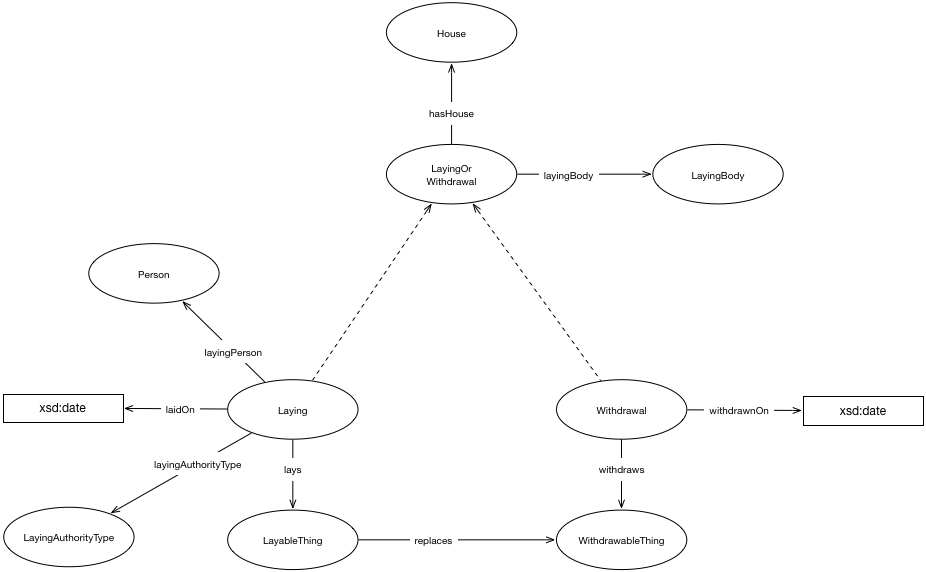
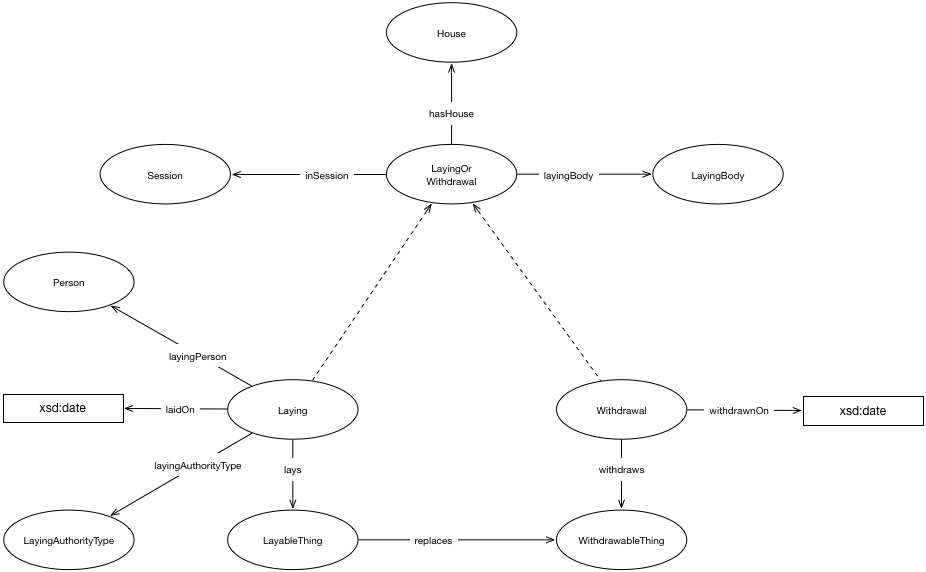
first draft

diff --git a/laying/laying-ontology.html b/laying/laying-ontology.html
@@ -1,0 +1,50 @@
+
+<?xml version="1.0" encoding="UTF-8"?><html xmlns="http://www.w3.org/1999/xhtml"><head><meta http-equiv="Content-Type" content="text/html; charset=UTF-8" /><title>Laying ontology</title>
+	
+	
+	
+	
+	
+	
+	
+	
+
+
+
+	
+
+		<link href="https://ukparliament.github.io/ontologies/assets/css.css" rel="stylesheet" type="text/css" />
+	</head>
+		<body>
+			<div class="head">
+				<h1>Laying ontology</h1>
+				<dl>
+					<dt>IRI:</dt>
+					<dd>http://parliament.uk/ontologies/laying/</dd>
+					<dt>See also:</dt>
+					<dd><a href="/ontologies/laying/laying-ontology.ttl">Turtle</dd>
+					<dd><a href="https://github.com/ukparliament/ontologies/tree/master/laying">Github</a></dd>
+					<dd><a href="http://pdswebvowl.azurewebsites.net/#iri=https://raw.githubusercontent.com/ukparliament/ontologies/master/laying/laying-ontology.ttl">Visualised</a></dd>
+			</dl>
+			<div class="copyright"><span class="markdown">Open Parliament Licence v3.0</span></div>
+		</div>
+		<hr />
+		<div id="toc"><h2>Table of Content</h2><ol><li><a href="#classes">Classes</a></li><li><a href="#objectproperties">Object Properties</a></li><li><a href="#dataproperties">Data Properties</a></li><li><a href="#namespacedeclarations">Namespace Declarations</a></li></ol></div>
+
+		<p><img src="https://raw.githubusercontent.com/ukpds/ontologies/master/laying/laying.png" width="950" /></p>
+	
+	
+	
+	
+	
+	
+	
+	
+	
+	
+	
+	
+	
+	<div id="classes"><h2>Classes</h2><ul class="hlist"><li><a href="#d4e199" title="http://parliament.uk/ontologies/laying/House">House</a></li><li><a href="#d4e211" title="http://parliament.uk/ontologies/laying/LayableThing">LayableThing</a></li><li><a href="#d4e222" title="http://parliament.uk/ontologies/laying/Laying">Laying</a></li><li><a href="#d4e235" title="http://parliament.uk/ontologies/laying/LayingAuthorityType">LayingAuthorityType</a></li><li><a href="#d4e246" title="http://parliament.uk/ontologies/laying/LayingBody">LayingBody</a></li><li><a href="#d4e257" title="http://parliament.uk/ontologies/laying/LayingOrWithdrawal">LayingOrWithdrawal</a></li><li><a href="#d4e268" title="http://parliament.uk/ontologies/laying/Person">Person</a></li><li><a href="#d4e280" title="http://parliament.uk/ontologies/laying/Session">Session</a></li><li><a href="#d4e291" title="http://parliament.uk/ontologies/laying/WithdrawableThing">WithdrawableThing</a></li><li><a href="#d4e302" title="http://parliament.uk/ontologies/laying/Withdrawal">Withdrawal</a></li></ul><div id="d4e199" class="entity"><a name="http://parliament.uk/ontologies/laying/House"></a><h3>House<sup title="class" class="type-c">c</sup><span class="backlink"> back to <a href="#toc">ToC</a> or <a href="#classes">Class ToC</a></span></h3><p><strong>IRI:</strong> http://parliament.uk/ontologies/laying/House</p><div class="comment"><span class="markdown">A parliamentary House e.g. the House of Lords.</span></div><dl class="description"><dt>is in range of</dt><dd><a href="#d4e44" title="http://parliament.uk/ontologies/laying/hasHouse">hasHouse</a><sup title="object property" class="type-op">op</sup></dd></dl></div><div id="d4e211" class="entity"><a name="http://parliament.uk/ontologies/laying/LayableThing"></a><h3>LayableThing<sup title="class" class="type-c">c</sup><span class="backlink"> back to <a href="#toc">ToC</a> or <a href="#classes">Class ToC</a></span></h3><p><strong>IRI:</strong> http://parliament.uk/ontologies/laying/LayableThing</p><div class="comment"><span class="markdown">Any type of paper which can be laid before a House.</span></div><dl class="description"><dt>is in domain of</dt><dd><a href="#d4e136" title="http://parliament.uk/ontologies/laying/replaces">replaces</a><sup title="object property" class="type-op">op</sup></dd><dt>is in range of</dt><dd><a href="#d4e121" title="http://parliament.uk/ontologies/laying/lays">lays</a><sup title="object property" class="type-op">op</sup></dd></dl></div><div id="d4e222" class="entity"><a name="http://parliament.uk/ontologies/laying/Laying"></a><h3>Laying<sup title="class" class="type-c">c</sup><span class="backlink"> back to <a href="#toc">ToC</a> or <a href="#classes">Class ToC</a></span></h3><p><strong>IRI:</strong> http://parliament.uk/ontologies/laying/Laying</p><div class="comment"><span class="markdown">The act of laying (submitting) a paper before a House.</span></div><dl class="description"><dt>has super-classes</dt><dd><a href="#d4e257" title="http://parliament.uk/ontologies/laying/LayingOrWithdrawal">LayingOrWithdrawal</a><sup title="class" class="type-c">c</sup></dd><dt>is in domain of</dt><dd><a href="#d4e169" title="http://parliament.uk/ontologies/laying/laidOn">laidOn</a><sup title="data property" class="type-dp">dp</sup>, <a href="#d4e75" title="http://parliament.uk/ontologies/laying/layingAuthorityType">layingAuthorityType</a><sup title="object property" class="type-op">op</sup>, <a href="#d4e105" title="http://parliament.uk/ontologies/laying/layingPerson">layingPerson</a><sup title="object property" class="type-op">op</sup>, <a href="#d4e121" title="http://parliament.uk/ontologies/laying/lays">lays</a><sup title="object property" class="type-op">op</sup></dd></dl></div><div id="d4e235" class="entity"><a name="http://parliament.uk/ontologies/laying/LayingAuthorityType"></a><h3>LayingAuthorityType<sup title="class" class="type-c">c</sup><span class="backlink"> back to <a href="#toc">ToC</a> or <a href="#classes">Class ToC</a></span></h3><p><strong>IRI:</strong> http://parliament.uk/ontologies/laying/LayingAuthorityType</p><div class="comment"><span class="markdown"></span></div><dl class="description"><dt>is in range of</dt><dd><a href="#d4e75" title="http://parliament.uk/ontologies/laying/layingAuthorityType">layingAuthorityType</a><sup title="object property" class="type-op">op</sup></dd></dl></div><div id="d4e246" class="entity"><a name="http://parliament.uk/ontologies/laying/LayingBody"></a><h3>LayingBody<sup title="class" class="type-c">c</sup><span class="backlink"> back to <a href="#toc">ToC</a> or <a href="#classes">Class ToC</a></span></h3><p><strong>IRI:</strong> http://parliament.uk/ontologies/laying/LayingBody</p><div class="comment"><span class="markdown">A body granted the right to lay papers before a House.</span></div><dl class="description"><dt>is in range of</dt><dd><a href="#d4e90" title="http://parliament.uk/ontologies/laying/layingBody">layingBody</a><sup title="object property" class="type-op">op</sup></dd></dl></div><div id="d4e257" class="entity"><a name="http://parliament.uk/ontologies/laying/LayingOrWithdrawal"></a><h3>LayingOrWithdrawal<sup title="class" class="type-c">c</sup><span class="backlink"> back to <a href="#toc">ToC</a> or <a href="#classes">Class ToC</a></span></h3><p><strong>IRI:</strong> http://parliament.uk/ontologies/laying/LayingOrWithdrawal</p><div class="comment"><span class="markdown">The act of laying or withdrawing a paper into or out of a House.</span></div><dl class="description"><dt>has sub-classes</dt><dd><a href="#d4e222" title="http://parliament.uk/ontologies/laying/Laying">Laying</a><sup title="class" class="type-c">c</sup>, <a href="#d4e302" title="http://parliament.uk/ontologies/laying/Withdrawal">Withdrawal</a><sup title="class" class="type-c">c</sup></dd><dt>is in domain of</dt><dd><a href="#d4e44" title="http://parliament.uk/ontologies/laying/hasHouse">hasHouse</a><sup title="object property" class="type-op">op</sup>, <a href="#d4e59" title="http://parliament.uk/ontologies/laying/inSession">inSession</a><sup title="object property" class="type-op">op</sup>, <a href="#d4e90" title="http://parliament.uk/ontologies/laying/layingBody">layingBody</a><sup title="object property" class="type-op">op</sup></dd></dl></div><div id="d4e268" class="entity"><a name="http://parliament.uk/ontologies/laying/Person"></a><h3>Person<sup title="class" class="type-c">c</sup><span class="backlink"> back to <a href="#toc">ToC</a> or <a href="#classes">Class ToC</a></span></h3><p><strong>IRI:</strong> http://parliament.uk/ontologies/laying/Person</p><div class="comment"><span class="markdown">A person.</span></div><dl class="description"><dt>is in range of</dt><dd><a href="#d4e105" title="http://parliament.uk/ontologies/laying/layingPerson">layingPerson</a><sup title="object property" class="type-op">op</sup></dd></dl></div><div id="d4e280" class="entity"><a name="http://parliament.uk/ontologies/laying/Session"></a><h3>Session<sup title="class" class="type-c">c</sup><span class="backlink"> back to <a href="#toc">ToC</a> or <a href="#classes">Class ToC</a></span></h3><p><strong>IRI:</strong> http://parliament.uk/ontologies/laying/Session</p><div class="comment"><span class="markdown">The period during which Parliament is active. The first session of a parliament begins on the same day as the parliament. This date is named in the dissolution proclamation. It ends on the day named in the subsequent prorogation proclamation. Subsequent sessions begin and end on dates named in prorogation proclamations. The final session ends with a prorogation followed by a dissolution. Parliament may be prorogued a few days before dissolution. A session typically lasts for one year though isn't bound by that. Session periods are the same across both Houses.</span></div><dl class="description"><dt>is in range of</dt><dd><a href="#d4e59" title="http://parliament.uk/ontologies/laying/inSession">inSession</a><sup title="object property" class="type-op">op</sup></dd></dl></div><div id="d4e291" class="entity"><a name="http://parliament.uk/ontologies/laying/WithdrawableThing"></a><h3>WithdrawableThing<sup title="class" class="type-c">c</sup><span class="backlink"> back to <a href="#toc">ToC</a> or <a href="#classes">Class ToC</a></span></h3><p><strong>IRI:</strong> http://parliament.uk/ontologies/laying/WithdrawableThing</p><div class="comment"><span class="markdown">Any type of paper which can be withdrawn from a House.</span></div><dl class="description"><dt>is in range of</dt><dd><a href="#d4e136" title="http://parliament.uk/ontologies/laying/replaces">replaces</a><sup title="object property" class="type-op">op</sup>, <a href="#d4e151" title="http://parliament.uk/ontologies/laying/withdraws">withdraws</a><sup title="object property" class="type-op">op</sup></dd></dl></div><div id="d4e302" class="entity"><a name="http://parliament.uk/ontologies/laying/Withdrawal"></a><h3>Withdrawal<sup title="class" class="type-c">c</sup><span class="backlink"> back to <a href="#toc">ToC</a> or <a href="#classes">Class ToC</a></span></h3><p><strong>IRI:</strong> http://parliament.uk/ontologies/laying/Withdrawal</p><div class="comment"><span class="markdown">The act of withdrawing a paper from a House.</span></div><dl class="description"><dt>has super-classes</dt><dd><a href="#d4e257" title="http://parliament.uk/ontologies/laying/LayingOrWithdrawal">LayingOrWithdrawal</a><sup title="class" class="type-c">c</sup></dd><dt>is in domain of</dt><dd><a href="#d4e151" title="http://parliament.uk/ontologies/laying/withdraws">withdraws</a><sup title="object property" class="type-op">op</sup></dd></dl></div></div><div id="objectproperties"><h2>Object Properties</h2><ul class="hlist"><li><a href="#d4e44" title="http://parliament.uk/ontologies/laying/hasHouse">hasHouse</a></li><li><a href="#d4e59" title="http://parliament.uk/ontologies/laying/inSession">inSession</a></li><li><a href="#d4e75" title="http://parliament.uk/ontologies/laying/layingAuthorityType">layingAuthorityType</a></li><li><a href="#d4e90" title="http://parliament.uk/ontologies/laying/layingBody">layingBody</a></li><li><a href="#d4e105" title="http://parliament.uk/ontologies/laying/layingPerson">layingPerson</a></li><li><a href="#d4e121" title="http://parliament.uk/ontologies/laying/lays">lays</a></li><li><a href="#d4e136" title="http://parliament.uk/ontologies/laying/replaces">replaces</a></li><li><a href="#d4e151" title="http://parliament.uk/ontologies/laying/withdraws">withdraws</a></li></ul><div id="d4e44" class="entity"><a name="http://parliament.uk/ontologies/laying/hasHouse"></a><h3>hasHouse<sup title="object property" class="type-op">op</sup><span class="backlink"> back to <a href="#toc">ToC</a> or <a href="#objectproperties">Object Property ToC</a></span></h3><p><strong>IRI:</strong> http://parliament.uk/ontologies/laying/hasHouse</p><div class="comment"><span class="markdown">Relates an act of laying or withdrawing to the House it happens in.</span></div><div class="description"><dl><dt>has domain</dt><dd><a href="#d4e257" title="http://parliament.uk/ontologies/laying/LayingOrWithdrawal">LayingOrWithdrawal</a><sup title="class" class="type-c">c</sup></dd><dt>has range</dt><dd><a href="#d4e199" title="http://parliament.uk/ontologies/laying/House">House</a><sup title="class" class="type-c">c</sup></dd></dl></div></div><div id="d4e59" class="entity"><a name="http://parliament.uk/ontologies/laying/inSession"></a><h3>inSession<sup title="object property" class="type-op">op</sup><span class="backlink"> back to <a href="#toc">ToC</a> or <a href="#objectproperties">Object Property ToC</a></span></h3><p><strong>IRI:</strong> http://parliament.uk/ontologies/laying/inSession</p><div class="comment"><span class="markdown">Relates an act of laying or withdrawing to the Session it happens in. Note that papers may be laid during a prorogation period for the attention of the House during the subsequent session. In this case this relationship would point to the subsequent session.</span></div><div class="description"><dl><dt>has domain</dt><dd><a href="#d4e257" title="http://parliament.uk/ontologies/laying/LayingOrWithdrawal">LayingOrWithdrawal</a><sup title="class" class="type-c">c</sup></dd><dt>has range</dt><dd><a href="#d4e280" title="http://parliament.uk/ontologies/laying/Session">Session</a><sup title="class" class="type-c">c</sup></dd></dl></div></div><div id="d4e75" class="entity"><a name="http://parliament.uk/ontologies/laying/layingAuthorityType"></a><h3>layingAuthorityType<sup title="object property" class="type-op">op</sup><span class="backlink"> back to <a href="#toc">ToC</a> or <a href="#objectproperties">Object Property ToC</a></span></h3><p><strong>IRI:</strong> http://parliament.uk/ontologies/laying/layingAuthorityType</p><div class="comment"><span class="markdown">Relates an act of laying to a laying authority type.</span></div><div class="description"><dl><dt>has domain</dt><dd><a href="#d4e222" title="http://parliament.uk/ontologies/laying/Laying">Laying</a><sup title="class" class="type-c">c</sup></dd><dt>has range</dt><dd><a href="#d4e235" title="http://parliament.uk/ontologies/laying/LayingAuthorityType">LayingAuthorityType</a><sup title="class" class="type-c">c</sup></dd></dl></div></div><div id="d4e90" class="entity"><a name="http://parliament.uk/ontologies/laying/layingBody"></a><h3>layingBody<sup title="object property" class="type-op">op</sup><span class="backlink"> back to <a href="#toc">ToC</a> or <a href="#objectproperties">Object Property ToC</a></span></h3><p><strong>IRI:</strong> http://parliament.uk/ontologies/laying/layingBody</p><div class="comment"><span class="markdown">Relates an act of laying or withdrawal to the laying body initiating it.</span></div><div class="description"><dl><dt>has domain</dt><dd><a href="#d4e257" title="http://parliament.uk/ontologies/laying/LayingOrWithdrawal">LayingOrWithdrawal</a><sup title="class" class="type-c">c</sup></dd><dt>has range</dt><dd><a href="#d4e246" title="http://parliament.uk/ontologies/laying/LayingBody">LayingBody</a><sup title="class" class="type-c">c</sup></dd></dl></div></div><div id="d4e105" class="entity"><a name="http://parliament.uk/ontologies/laying/layingPerson"></a><h3>layingPerson<sup title="object property" class="type-op">op</sup><span class="backlink"> back to <a href="#toc">ToC</a> or <a href="#objectproperties">Object Property ToC</a></span></h3><p><strong>IRI:</strong> http://parliament.uk/ontologies/laying/layingPerson</p><div class="comment"><span class="markdown">Relates an act of laying to the person initiating it.</span></div><div class="description"><dl><dt>has domain</dt><dd><a href="#d4e222" title="http://parliament.uk/ontologies/laying/Laying">Laying</a><sup title="class" class="type-c">c</sup></dd><dt>has range</dt><dd><a href="#d4e268" title="http://parliament.uk/ontologies/laying/Person">Person</a><sup title="class" class="type-c">c</sup></dd></dl></div></div><div id="d4e121" class="entity"><a name="http://parliament.uk/ontologies/laying/lays"></a><h3>lays<sup title="object property" class="type-op">op</sup><span class="backlink"> back to <a href="#toc">ToC</a> or <a href="#objectproperties">Object Property ToC</a></span></h3><p><strong>IRI:</strong> http://parliament.uk/ontologies/laying/lays</p><div class="comment"><span class="markdown">Relates an act of laying to a thing which is layable.</span></div><div class="description"><dl><dt>has domain</dt><dd><a href="#d4e222" title="http://parliament.uk/ontologies/laying/Laying">Laying</a><sup title="class" class="type-c">c</sup></dd><dt>has range</dt><dd><a href="#d4e211" title="http://parliament.uk/ontologies/laying/LayableThing">LayableThing</a><sup title="class" class="type-c">c</sup></dd></dl></div></div><div id="d4e136" class="entity"><a name="http://parliament.uk/ontologies/laying/replaces"></a><h3>replaces<sup title="object property" class="type-op">op</sup><span class="backlink"> back to <a href="#toc">ToC</a> or <a href="#objectproperties">Object Property ToC</a></span></h3><p><strong>IRI:</strong> http://parliament.uk/ontologies/laying/replaces</p><div class="comment"><span class="markdown">Relates a laid thing to the withdrawn thing it replaces.</span></div><div class="description"><dl><dt>has domain</dt><dd><a href="#d4e211" title="http://parliament.uk/ontologies/laying/LayableThing">LayableThing</a><sup title="class" class="type-c">c</sup></dd><dt>has range</dt><dd><a href="#d4e291" title="http://parliament.uk/ontologies/laying/WithdrawableThing">WithdrawableThing</a><sup title="class" class="type-c">c</sup></dd></dl></div></div><div id="d4e151" class="entity"><a name="http://parliament.uk/ontologies/laying/withdraws"></a><h3>withdraws<sup title="object property" class="type-op">op</sup><span class="backlink"> back to <a href="#toc">ToC</a> or <a href="#objectproperties">Object Property ToC</a></span></h3><p><strong>IRI:</strong> http://parliament.uk/ontologies/laying/withdraws</p><div class="comment"><span class="markdown">Relates an act of withdrawal to a thing which is withdrawable.</span></div><div class="description"><dl><dt>has domain</dt><dd><a href="#d4e302" title="http://parliament.uk/ontologies/laying/Withdrawal">Withdrawal</a><sup title="class" class="type-c">c</sup></dd><dt>has range</dt><dd><a href="#d4e291" title="http://parliament.uk/ontologies/laying/WithdrawableThing">WithdrawableThing</a><sup title="class" class="type-c">c</sup></dd></dl></div></div></div><div id="dataproperties"><h2>Data Properties</h2><ul class="hlist"><li><a href="#d4e169" title="http://parliament.uk/ontologies/laying/laidOn">laidOn</a></li><li><a href="#d4e184" title="http://parliament.uk/ontologies/laying/withdrawnOn">withdrawnOn</a></li></ul><div id="d4e169" class="entity"><a name="http://parliament.uk/ontologies/laying/laidOn"></a><h3>laidOn<sup title="data property" class="type-dp">dp</sup><span class="backlink"> back to <a href="#toc">ToC</a> or <a href="#dataproperties">Data Property ToC</a></span></h3><p><strong>IRI:</strong> http://parliament.uk/ontologies/laying/laidOn</p><div class="comment"><span class="markdown">Relates an act of laying to the date it happens on. Note that this might be outside a session.</span></div><div class="description"><dl><dt>has domain</dt><dd><a href="#d4e222" title="http://parliament.uk/ontologies/laying/Laying">Laying</a><sup title="class" class="type-c">c</sup></dd><dt>has range</dt><dd><span class="dotted" title="http://www.w3.org/2001/XMLSchema#date">date</span></dd></dl></div></div><div id="d4e184" class="entity"><a name="http://parliament.uk/ontologies/laying/withdrawnOn"></a><h3>withdrawnOn<sup title="data property" class="type-dp">dp</sup><span class="backlink"> back to <a href="#toc">ToC</a> or <a href="#dataproperties">Data Property ToC</a></span></h3><p><strong>IRI:</strong> http://parliament.uk/ontologies/laying/withdrawnOn</p><div class="comment"><span class="markdown">Relates an act of withdrawl to the date it happens on.</span></div><div class="description"><dl><dt>has range</dt><dd><span class="dotted" title="http://www.w3.org/2001/XMLSchema#date">date</span></dd><dt>is also defined as</dt><dd><a href="#d4e22">annotation property</a></dd></dl></div></div></div><div id="annotationproperties"><h2>Annotation Properties</h2><ul class="hlist"><li><a href="#d4e22" title="http://parliament.uk/ontologies/laying/withdrawnOn">withdrawnOn</a></li></ul><div id="d4e22" class="entity"><a name="http://parliament.uk/ontologies/laying/withdrawnOn"></a><h3>withdrawnOn<sup title="annotation property" class="type-ap">ap</sup><span class="backlink"> back to <a href="#toc">ToC</a> or <a href="#annotationproperties">Annotation Property ToC</a></span></h3><p><strong>IRI:</strong> http://parliament.uk/ontologies/laying/withdrawnOn</p><div class="comment"><span class="markdown">Relates an act of withdrawl to the date it happens on.</span></div><div class="description"><dl><dt>has domain</dt><dd><span class="dotted" title="http://parliament.uk/ontologies/laying/withdrawal">withdrawal</span></dd><dt>is also defined as</dt><dd><a href="#d4e184">data property</a></dd></dl></div></div></div><div id="namespacedeclarations"><h2>Namespace Declarations <span class="backlink"> back to <a href="#toc">ToC</a></span></h2><dl><dt><em>default namespace</em></dt><dd>http://parliament.uk/ontologies/laying/</dd><dt>laying</dt><dd>http://parliament.uk/ontologies/laying/</dd><dt>owl</dt><dd>http://www.w3.org/2002/07/owl#</dd><dt>rdf</dt><dd>http://www.w3.org/1999/02/22-rdf-syntax-ns#</dd><dt>rdfs</dt><dd>http://www.w3.org/2000/01/rdf-schema#</dd><dt>terms</dt><dd>http://purl.org/dc/terms/</dd><dt>xsd</dt><dd>http://www.w3.org/2001/XMLSchema#</dd></dl></div><p class="endnote">This HTML document was obtained by processing the OWL ontology source code through <a href="http://www.essepuntato.it/lode">LODE</a>, <em>Live OWL Documentation Environment</em>, developed by <a href="http://www.essepuntato.it">Silvio Peroni</a>.</p></body></html>
+
+
